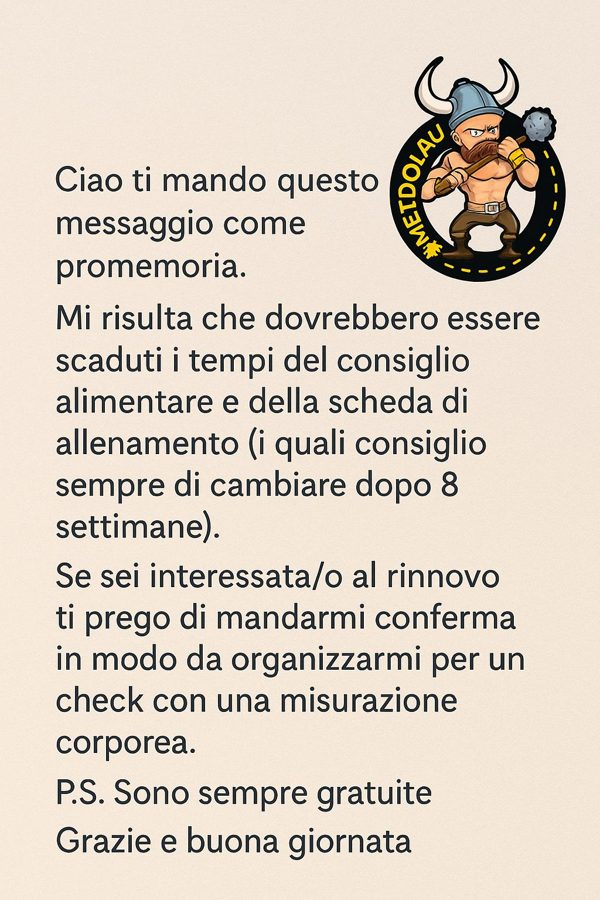
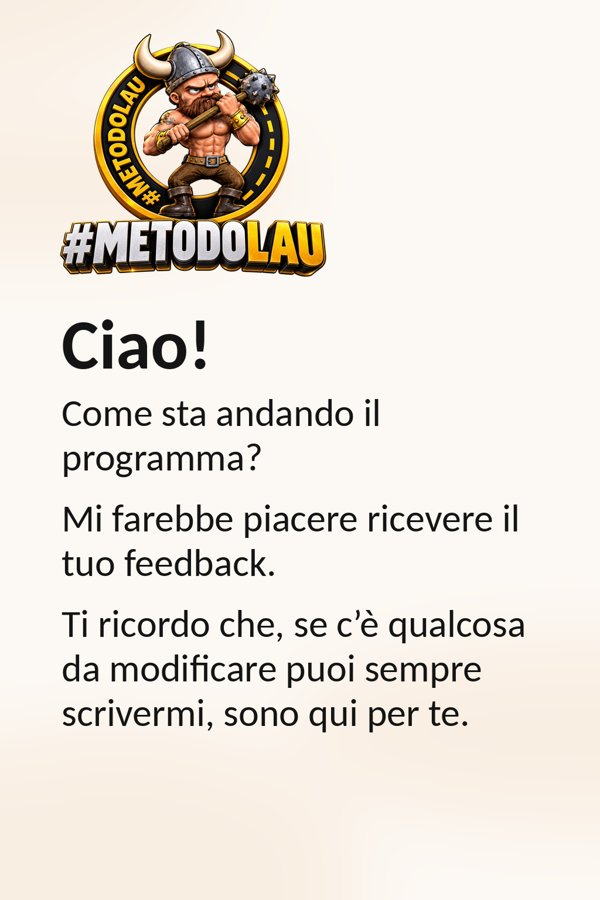
## Completato - **Immagini email aggiornate**: la prima ("Ciao! Come sta andando il programma?") nell'email di feedback a 3 settimane, la seconda ("un breve messaggio per ricordarti…") nell'email di scheda scaduta. - **Bug "sessione annullata" dopo l'allenamento**: trovato e corretto in questa prima
**Conferme richieste:**
- ✅ Il tasto **"Regala lezione gratis"** è sempre visibile e funziona in qualsiasi momento, anche prima delle 10 lezioni.
- ✅ Il conteggio delle lezioni **non è mai visibile all'atleta**: lo vedi solo tu nella card Fedeltà (serve per ricordarti le 10 lezioni).
- ✅ Arrivati a 10 il ciclo **si resetta** (barra riparte da 0/10, ti arriva l'email a ogni multiplo di 10); il totale storico resta visibile solo a te.

Abbiamo effettuato controlli automatici del codice e caricamento immagini; ti chiedo di verificare il comportamento del calendario nei prossimi giorni sull'app pubblicata per confermare la stabilità.

- Next Action Items:
  - **Ripubblica App**: Pubblica la nuova versione così nuove immagini e correzione del calendario sono attive online
  - **Avviso Terza Disdetta**: Manda all'atleta un'email automatica quando scatta la terza disdetta ricordando che la lezione è dovuta
  - **Reset Password Via Email**: Fai funzionare davvero "Password dimenticata?" inviando un link di reimpostazione all'atleta
  - **Report PDF Plicometria**: Genera il report con logo METODOLAU in PDF da inviare all'atleta dopo ogni check

Emergent-Commit-Key: d24a6f2800823278f40c000fd53a8b86573ea5cc0ea04089e255f14a82c8adbc

diff --git a/backend/server.py b/backend/server.py
@@ -1037,6 +1037,9 @@ async def _sync_calendar() -> dict:
             continue
         start = (start.replace(tzinfo=timezone.utc) if start.tzinfo is None else start).astimezone(ROME)
         if start < now_rome - timedelta(hours=1):
+            uid_past = str(ev.get("UID") or "")
+            if uid_past:
+                seen_uids.add(uid_past)  # evento passato: lo consideriamo presente, mai "rimosso"
             continue
         summary = str(ev.get("SUMMARY") or "")
         attendees = ev.get("ATTENDEE") or []
@@ -1073,10 +1076,11 @@ async def _sync_calendar() -> dict:
             updated += 1
             if moved:
                 asyncio.create_task(send_session_created_email(match["doc"], {**existing, **fields}, "moved", existing))
-    # future sessions that came from the calendar but are no longer there → removed (+ email annullamento)
-    today = now_rome.date().isoformat()
+    # sessioni FUTURE importate dal calendario ma non più presenti → rimosse (+ email annullamento).
+    # Le sessioni già iniziate/concluse non vengono mai toccate.
+    now_iso = now_rome.replace(tzinfo=None).isoformat()
     removed = 0
-    async for gone in db.sessions.find({"calendar_uid": {"$exists": True, "$nin": list(seen_uids)}, "date": {"$gte": today}}):
+    async for gone in db.sessions.find({"calendar_uid": {"$exists": True, "$nin": list(seen_uids)}, "datetime_local": {"$gt": now_iso}}):
         await db.sessions.delete_one({"_id": gone["_id"]})
         removed += 1
         cl = await db.users.find_one({"_id": ObjectId(gone["user_id"])})
@@ -1183,22 +1187,22 @@ async def send_loyalty_pt_email(client: dict, info: dict) -> bool:
 async def send_free_lesson_email(client: dict, info: dict) -> bool:
     try:
         first = escape((client.get("name") or "Atleta").split(" ")[0])
-        wa = _wa_url(client, f"Ciao! Sono {client.get('name') or ''}, ho sbloccato la lezione gratuita: quando possiamo fissarla?")
+        wa = _wa_url(client, f"Ciao! Sono {client.get('name') or ''}, grazie per la lezione in regalo: quando possiamo fissarla?")
         html = (
             '<table role="presentation" width="100%" cellpadding="0" cellspacing="0" style="background:#0A0A0D;padding:32px 16px">'
             '<tr><td align="center"><table role="presentation" width="560" cellpadding="0" cellspacing="0" '
             'style="background:#121218;border:1px solid #262633;border-radius:12px;padding:32px;font-family:Arial,sans-serif">'
             '<tr><td><div style="color:#F5C518;font-size:12px;letter-spacing:3px;text-transform:uppercase">METODOLAU</div>'
-            f'<h1 style="color:#ffffff;font-size:26px;margin:12px 0 8px">Complimenti {first}, hai sbloccato una lezione gratis!</h1>'
-            f'<p style="{BODY};margin:0 0 12px">Hai completato <strong style="color:#F5C518">{info["completed"]} lezioni private</strong> con il tuo Personal Trainer: '
-            'la costanza paga. Come premio, la prossima lezione privata te la offro io.</p>'
+            f'<h1 style="color:#ffffff;font-size:26px;margin:12px 0 8px">{first}, ti regalo una lezione privata!</h1>'
+            f'<p style="{BODY};margin:0 0 12px">Il tuo Personal Trainer ha deciso di <strong style="color:#F5C518">offrirti una lezione privata gratuita</strong>: '
+            'un premio per il tuo impegno e la tua costanza.</p>'
             f'<p style="{BODY};margin:0 0 16px">Scrivimi su WhatsApp per scegliere insieme giorno e ora.</p>'
             f'<a href="{wa}" style="display:inline-block;background:#25D366;color:#ffffff;font-weight:bold;font-size:15px;'
             'text-transform:uppercase;letter-spacing:1px;text-decoration:none;padding:14px 28px;border-radius:8px">Fissa la lezione su WhatsApp</a>'
             f'<p style="color:#52525b;font-size:12px;margin:24px 0 0">Inviata da {escape(EMAIL_FROM_NAME)}.</p>'
             '</td></tr></table></td></tr></table>'
         )
-        return bool(await send_email(to=client["email"], subject=f"{EMAIL_FROM_NAME}: hai sbloccato una lezione gratis!", html=html))
+        return bool(await send_email(to=client["email"], subject=f"{EMAIL_FROM_NAME}: una lezione privata in regalo per te!", html=html))
     except Exception as e:
         logger.error(f"send_free_lesson_email failed: {e}")
         return False

diff --git a/memory/PRD.md b/memory/PRD.md
@@ -110,6 +110,11 @@ Crea un applicazione dove ogni utente potrà vedere la sua scheda di allenamento
 ## Implemented (2026-06, fork 2 — round 18)
 - Policy disdetta (CANCEL_POLICY): disdetta ≥24h prima; 2 disdette in 6 mesi → dalla terza si paga. Mostrata all'atleta nel tab Sessioni (GET /api/me/session-policy) e nelle email nuova/spostata sessione. PT: DELETE /admin/sessions/{id}?by_athlete=1 registra in `cancellations`; loyalty restituisce cancellations_6m + date; card Fedeltà evidenzia in rosso da 2 disdette
 
+## Implemented (2026-06, fork 2 — round 19)
+- Nuove immagini email feedback/scadenza (public/email/feedback.jpg, expired.jpg)
+- BUG FIX: il sync calendario cancellava (con email 'annullata') le sessioni appena concluse perché gli eventi passati venivano saltati e poi considerati rimossi → ora gli UID passati vengono marcati come visti e si rimuovono solo sessioni con datetime_local futuro
+- Email 'lezione in regalo' senza conteggio lezioni
+
 ## Backlog (P1)
 - Storico progressione peso per esercizio (grafico recharts)
 - Duplica scheda tra clienti / template
